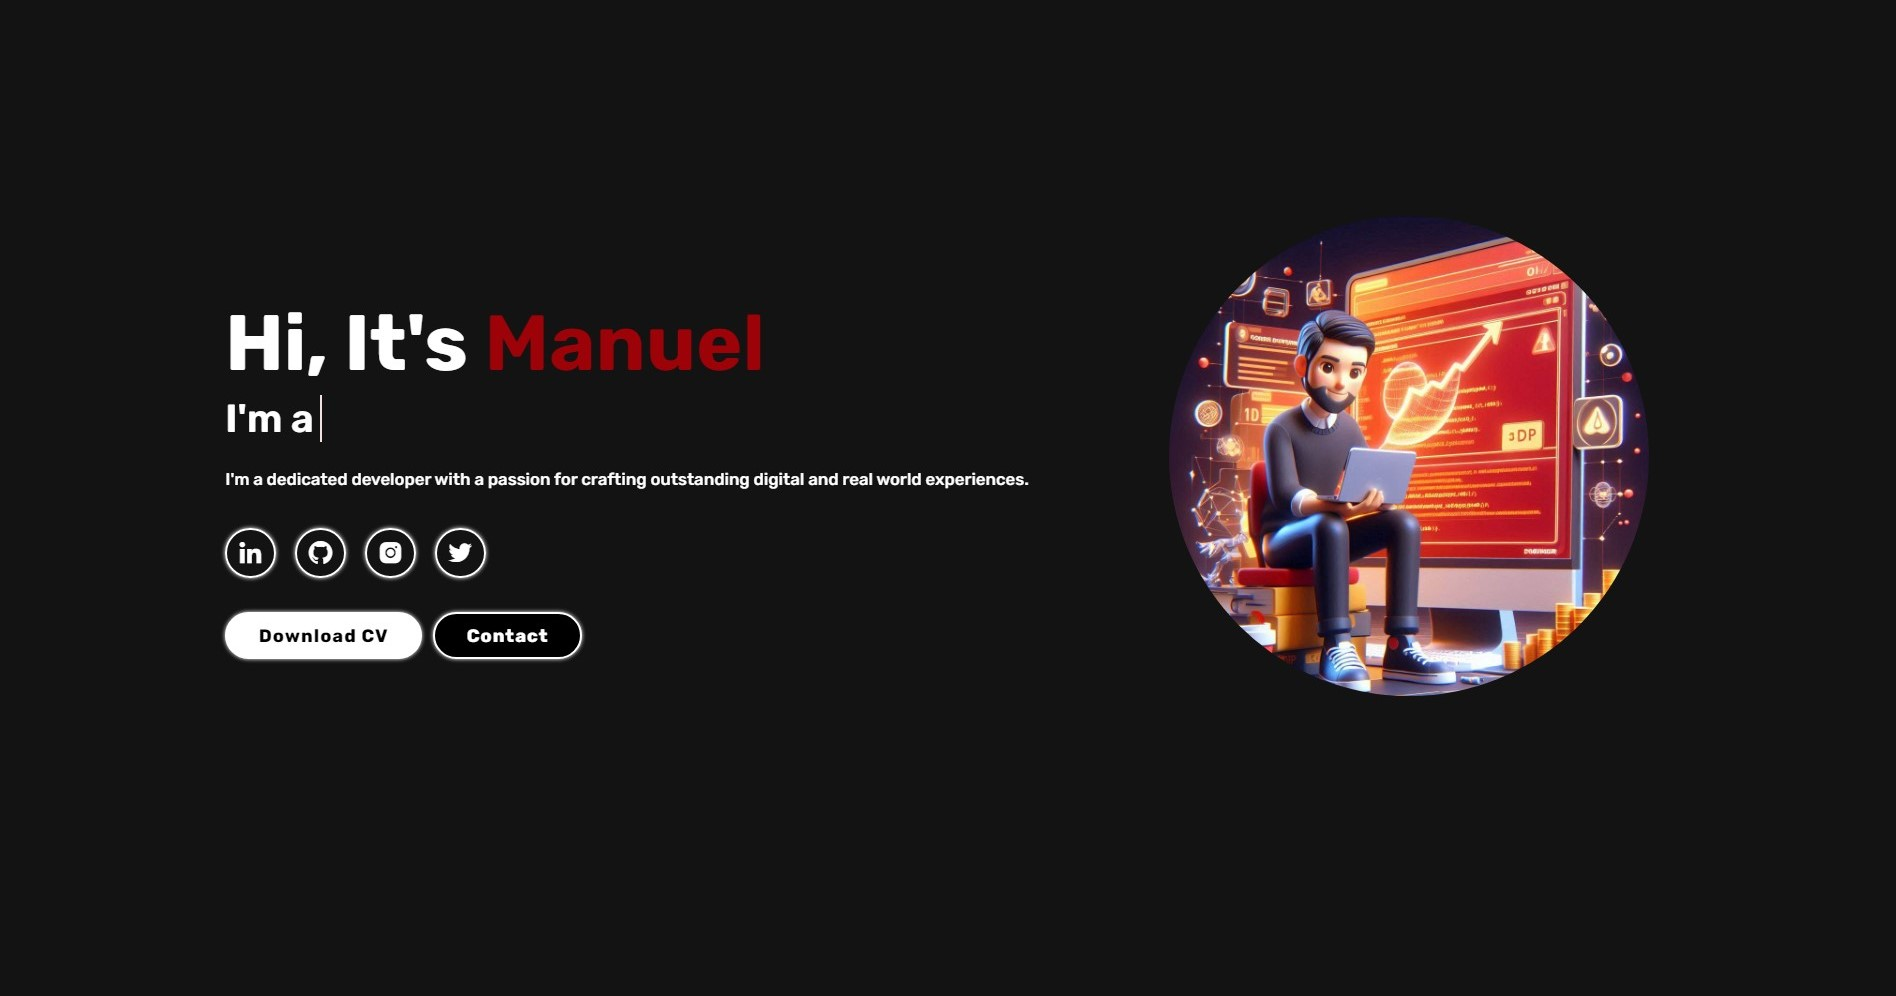
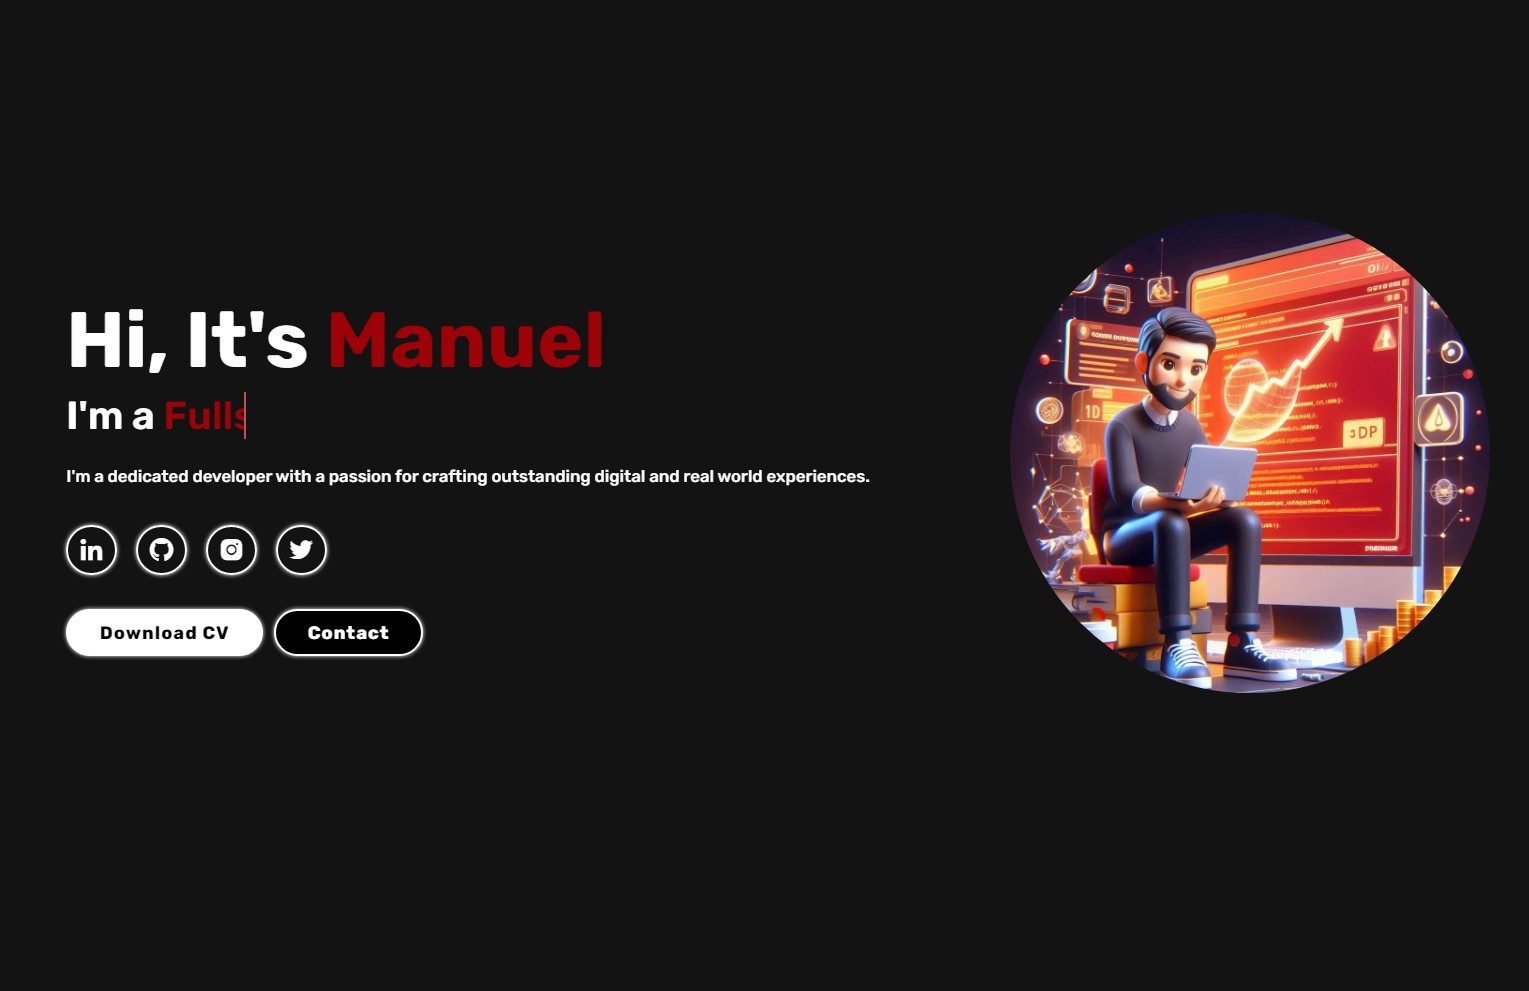
Changed Projects Section

Changed region(s): [[0.6148, 0.2119, 0.9836, 0.6963], [0.0307, 0.3027, 0.5533, 0.5146], [0.0307, 0.5146, 0.3074, 0.666]]

diff --git a/index.html b/index.html
@@ -36,7 +36,7 @@
             <h3 class="text-animation">I'm a <span></span></h3>
             <p>
                 I'm a dedicated developer with a passion for crafting outstanding
-                digital and real world experiences.
+                digital experiences.
             </p>
 
             <div class="social-icons">
@@ -75,10 +75,8 @@
                     <div class="project">
                         <img src="images/opencv.png" alt="Project 1" />
                         <h3>OpenCV</h3>
-                        <p>
-                            Lorem ipsum dolor sit amet, consectetur adipiscing elit. Integer
-                            posuere erat a ante venenatis.
-                        </p>
+                        <p> Computer Vision "object detection" project. </p>
+                        <p> Developed an end-to-end system for fault detection in an industrial production environment </p>
                     </div>
                     <div class="project">
                         <img src="images/portfolio.jpeg" alt="Project 2" />
@@ -90,7 +88,7 @@
                     </div>
                     <div class="project">
                         <img src="images/robot.jpg" alt="Project 3" />
-                        <h3>Robot</h3>
+                        <h3>Robotic Arm</h3>
                         <p>
                             Lorem ipsum dolor sit amet, consectetur adipiscing elit. Integer
                             posuere erat a ante venenatis.

diff --git a/style.css b/style.css
@@ -141,8 +141,8 @@ span {
 }
 
 .home-content p {
-  font-size: 1.5rem;
-  font-weight: 500;
+  font-size: 1.8rem;
+  font-weight: 400;
   line-height: 1.8;
   max-width: 1000px;
 }
@@ -311,7 +311,7 @@ span {
   line-height: 1.6em;
   padding: 0 0 0 25em;
   font-size: 1.8rem;
-  font-weight: 100;
+  font-weight: 400;
   margin-left: 11.35em;
 }
 
@@ -373,7 +373,7 @@ span {
 
 .projects-box h2 {
   font-size: 4rem;
-  margin-bottom: 3rem;
+  margin-bottom: 4rem;
 }
 
 .projects-box h3 {
@@ -388,7 +388,7 @@ span {
 .projects-content {
   display: grid;
   grid-template-columns: repeat(3, 1fr);
-  gap: 2rem;
+  gap: 3rem;
   width: 100%;
   padding: 1em;
 }
@@ -397,6 +397,7 @@ span {
   background: var(--bg-color);
   padding: 2rem;
   border-radius: 2rem;
+  box-shadow: 0 0 2px var(--main-color);
   text-align: center;
   transition: 0.3s ease-in-out;
   display: flex;
@@ -407,6 +408,7 @@ span {
 
 .project:hover {
   transform: scale(1.05);
+  box-shadow: 0 0 10px var(--main-color);
   cursor: pointer;
 }
 
